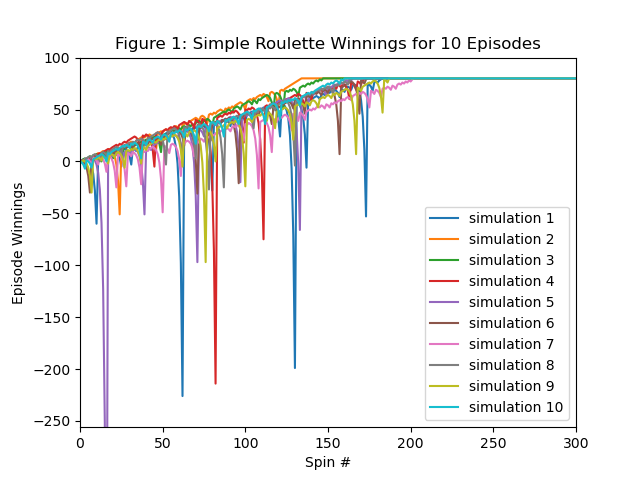
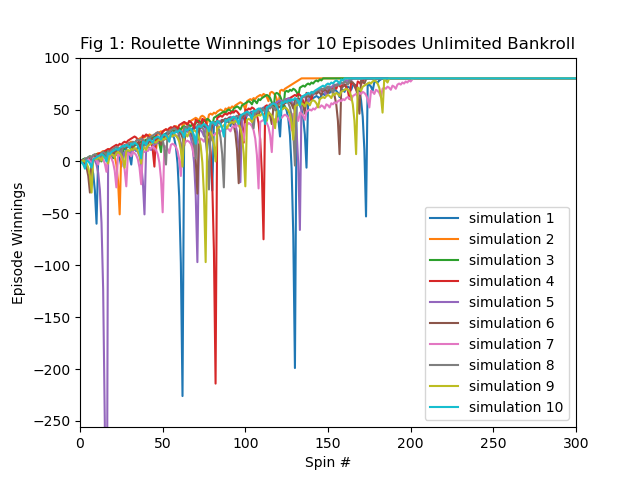
commit 2 martingale

Changed region(s): [[0.125, 0.0625, 0.9062, 0.125]]

diff --git a/martingale/martingale.py b/martingale/martingale.py
@@ -91,7 +91,7 @@ def figure1(win_prob):
     for index, sim in enumerate(simulations):
         plt.plot(x_coordinates, sim, label = "simulation " + str(index+1))
 
-    plt.title("Figure 1: Simple Roulette Winnings for 10 Episodes")
+    plt.title("Fig 1: Roulette Winnings for 10 Episodes Unlimited Bankroll")
     plt.xlabel("Spin #")
     plt.ylabel("Episode Winnings")
     plt.xlim([0, 300])
@@ -111,7 +111,7 @@ def figure2(win_prob):
     plt.plot(x_coordinates, mean_plus_std, label="Mean + Std Dev")
     plt.plot(x_coordinates, mean_minus_std, label="Mean - Std Dev")
 
-    plt.title("Figure 2: Mean Winnings Per Spin Across 1000 Episodes")
+    plt.title("Fig 2: Mean Winnings Per Spin Across 1000 Episodes Unlimited Bankroll")
     plt.xlabel("Spin #")
     plt.ylabel("Winnings")
     plt.xlim([0, 300])
@@ -131,7 +131,7 @@ def figure3(win_prob):
     plt.plot(x_coordinates, median_plus_std, label="Median + Std Dev")
     plt.plot(x_coordinates, median_minus_std, label="Median - Std Dev")
 
-    plt.title("Figure 3: Median Winnings Per Spin Across 1000 Episodes")
+    plt.title("Fig 3: Median Winnings Per Spin Across 1000 Episodes Unlimited Bankroll")
     plt.xlabel("Spin #")
     plt.ylabel("Winnings")
     plt.xlim([0, 300])
@@ -152,7 +152,7 @@ def figure4(win_prob):
     plt.plot(x_coordinates, mean_plus_std, label="Mean + Std Dev")
     plt.plot(x_coordinates, mean_minus_std, label="Mean - Std Dev")
 
-    plt.title("Figure 4: Mean Winnings Per Spin Across 1000 Episodes With Capped Bankroll")
+    plt.title("Fig 4: Mean Winnings Per Spin Across 1000 Episodes Capped Bankroll")
     plt.xlabel("Spin #")
     plt.ylabel("Winnings")
     plt.xlim([0, 300])
@@ -172,7 +172,7 @@ def figure5(win_prob):
     plt.plot(x_coordinates, median_plus_std, label="Median + Std Dev")
     plt.plot(x_coordinates, median_minus_std, label="Median - Std Dev")
 
-    plt.title("Figure 5: Median Winnings Per Spin Across 1000 Episodes With Capped Bankroll")
+    plt.title("Fig 5: Median Winnings Per Spin Across 1000 Episodes Capped Bankroll")
     plt.xlabel("Spin #")
     plt.ylabel("Winnings")
     plt.xlim([0, 300])
